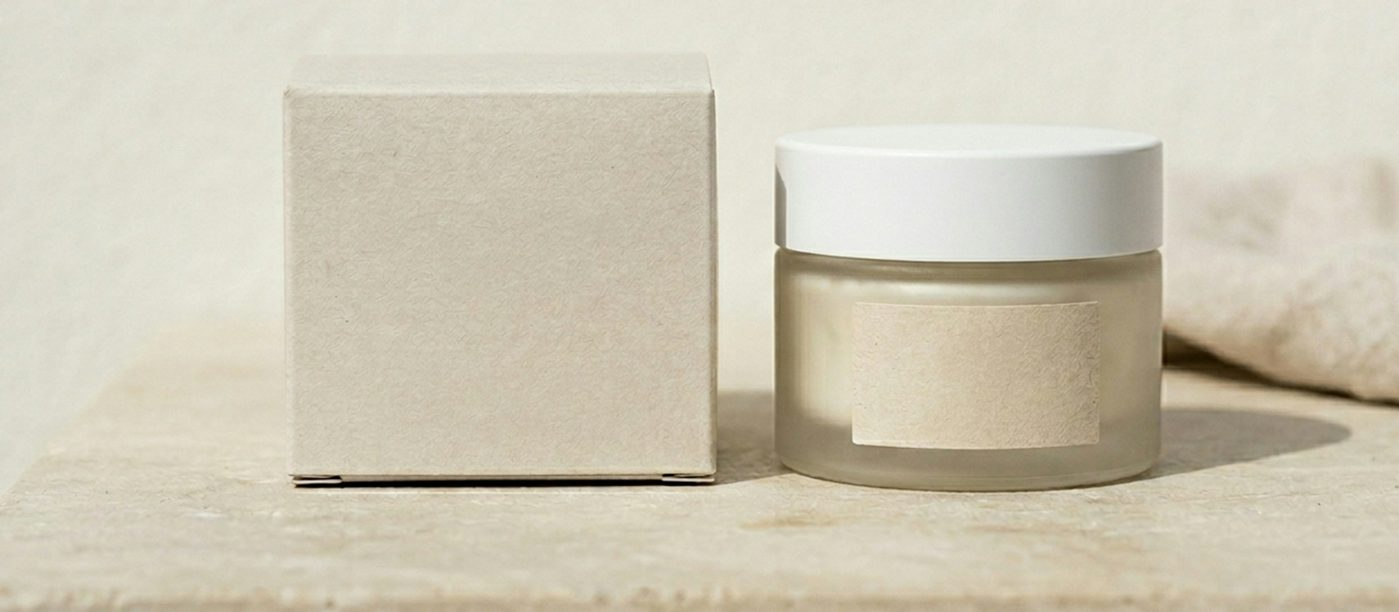
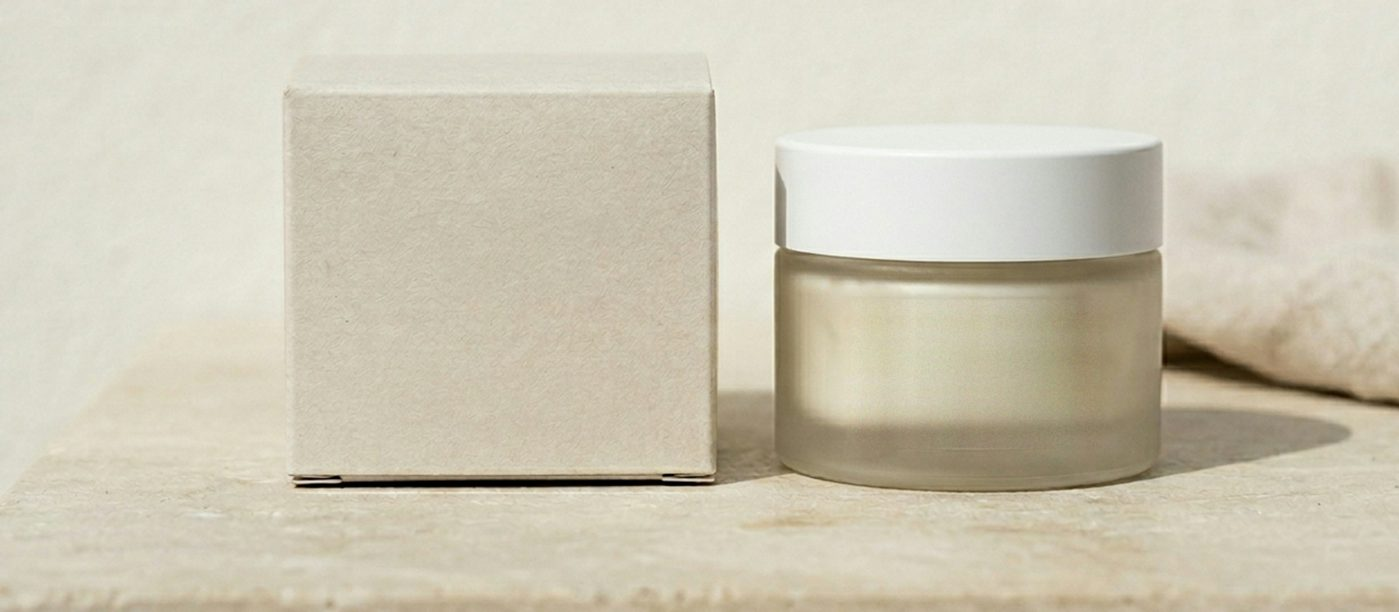
Apply client photo and copy feedback
- Hero: remove the blank paper label from the cream jar (filled from the
  surrounding frosted glass) so it reads as a clean, unbranded jar.
- Private-label step: replace the photo of a technician at a lab mixer
  with a machine-only shot of a stainless mixing vessel and lid; no
  people.
- Certifications title: drop the unneeded shadda (موثّقة -> موثقة).
- About quote card: keep the quote, drop the attribution line under it
  (ar + en).

Claude-Session: https://claude.ai/code/session_01HNBKby6n6fVEUZsToFNWVA

Changed region(s): [[0.584, 0.652, 0.7991, 0.7451], [0.7377, 0.4967, 0.7684, 0.5278], [0.7069, 0.4657, 0.7377, 0.4967]]

diff --git a/src/i18n/translations.js b/src/i18n/translations.js
@@ -41,7 +41,7 @@ export const translations = {
     },
     certifications: {
       eyebrow: 'شهاداتنا واعتماداتنا',
-      title: 'جودة موثّقة بمعايير عالمية',
+      title: 'جودة موثقة بمعايير عالمية',
       subtitle: 'اعتمادات رسمية ورقابة صارمة تقف خلف كل منتج يخرج من مصنعنا.',
       badges: [
         { title: 'آيزو 9001', desc: 'نظام إدارة الجودة' },
@@ -62,7 +62,6 @@ export const translations = {
       paragraph:
         'مصنع أول حلم متخصص في تصنيع مستحضرات التجميل بجميع أنواعها؛ العناية بالبشرة، العناية بالشعر، العناية الشخصية والمكياج، وذلك تحت علامتك التجارية الخاصة. نؤمن بأن كل فكرة تستحق أن تتحول إلى منتج حقيقي بجودة تنافس الأسواق العالمية، وبانسجام تام مع توجهات رؤية المملكة 2030 في دعم الصناعة الوطنية وتنويع الاقتصاد.',
       quote: '"نصنع الثقة قبل أن نصنع المنتج"',
-      quoteAuthor: 'فلسفتنا في مصنع أول حلم لصناعة مستحضرات التجميل',
       points: [
         'التزام كامل بمعايير الجودة والسلامة في كل مراحل التصنيع',
         'دعم مباشر لرؤية 2030 وتوطين صناعة مستحضرات التجميل محلياً',
@@ -384,7 +383,6 @@ export const translations = {
       paragraph:
         'Awal Helm Factory specializes in manufacturing all types of cosmetics — skincare, haircare, personal care, and makeup — under your own brand. We believe every idea deserves to become a real product with quality that rivals global markets, fully aligned with Saudi Vision 2030 in supporting national industry and economic diversification.',
       quote: '"We build trust before we build the product"',
-      quoteAuthor: 'Our philosophy at Awal Helm Cosmetics Manufacturing Factory',
       points: [
         'Full commitment to quality and safety standards at every stage of manufacturing',
         'Direct support for Vision 2030 and localizing the cosmetics industry',

diff --git a/src/components/About.jsx b/src/components/About.jsx
@@ -14,10 +14,7 @@ export default function About() {
           <div className="relative overflow-hidden rounded-3xl bg-gradient-to-br from-brand-500 to-brand-700 px-8 py-14 md:px-10 md:py-16 flex flex-col items-center gap-8 text-center">
             <div className="absolute -bottom-10 -left-10 h-56 w-56 rounded-full bg-white/10 blur-2xl" />
             <img src={logoWhite} alt="مصنع أول حلم" className="relative h-20 w-auto md:h-24" />
-            <div className="relative">
-              <p className="text-xl font-bold leading-relaxed text-white md:text-2xl">{t('about.quote')}</p>
-              <p className="mt-3 text-sm text-white/75">{t('about.quoteAuthor')}</p>
-            </div>
+            <p className="relative text-xl font-bold leading-relaxed text-white md:text-2xl">{t('about.quote')}</p>
           </div>
         </Reveal>
 
